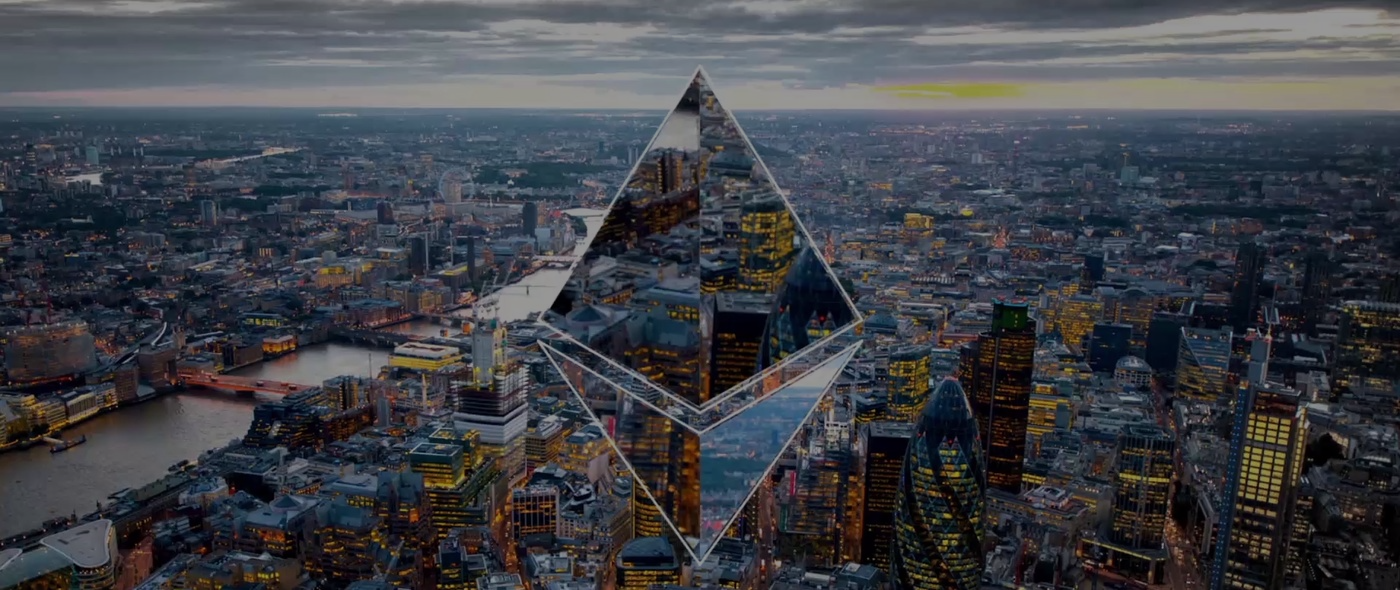
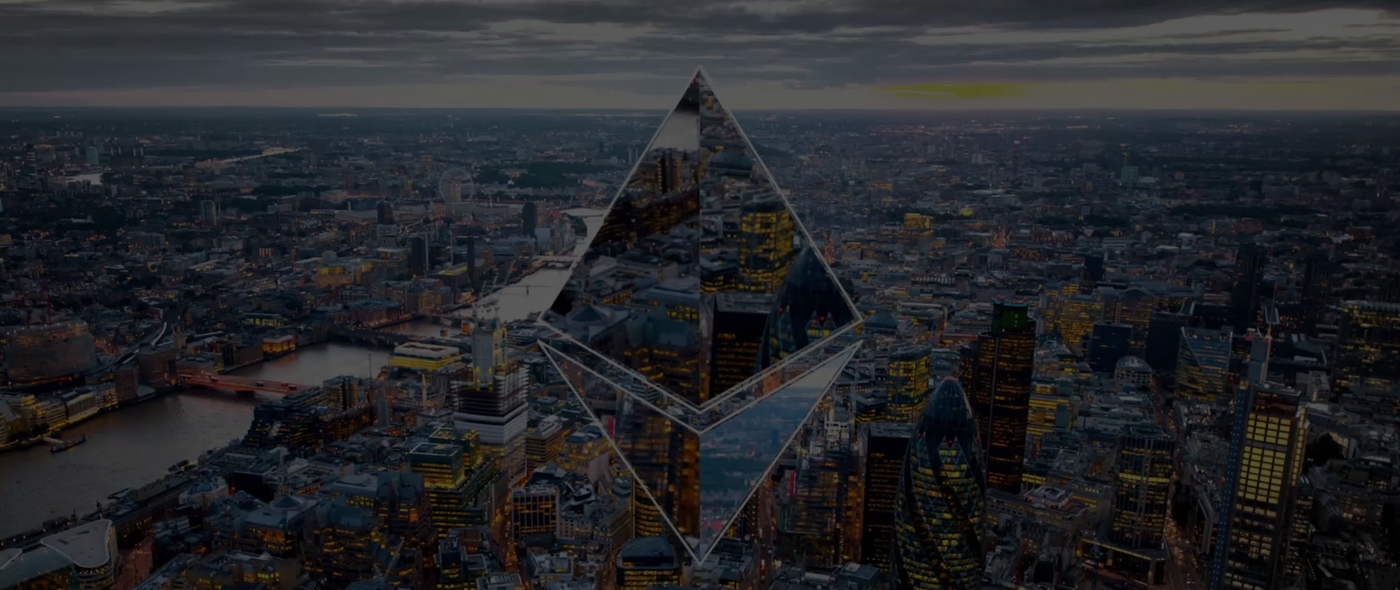
darkened team page header

diff --git a/assets/css/team.css b/assets/css/team.css
@@ -257,7 +257,7 @@ p.modal-text {
     }
 
     .btn-info {
-      left: 34%;
+      left: 32%;
     }
 
     .column {
